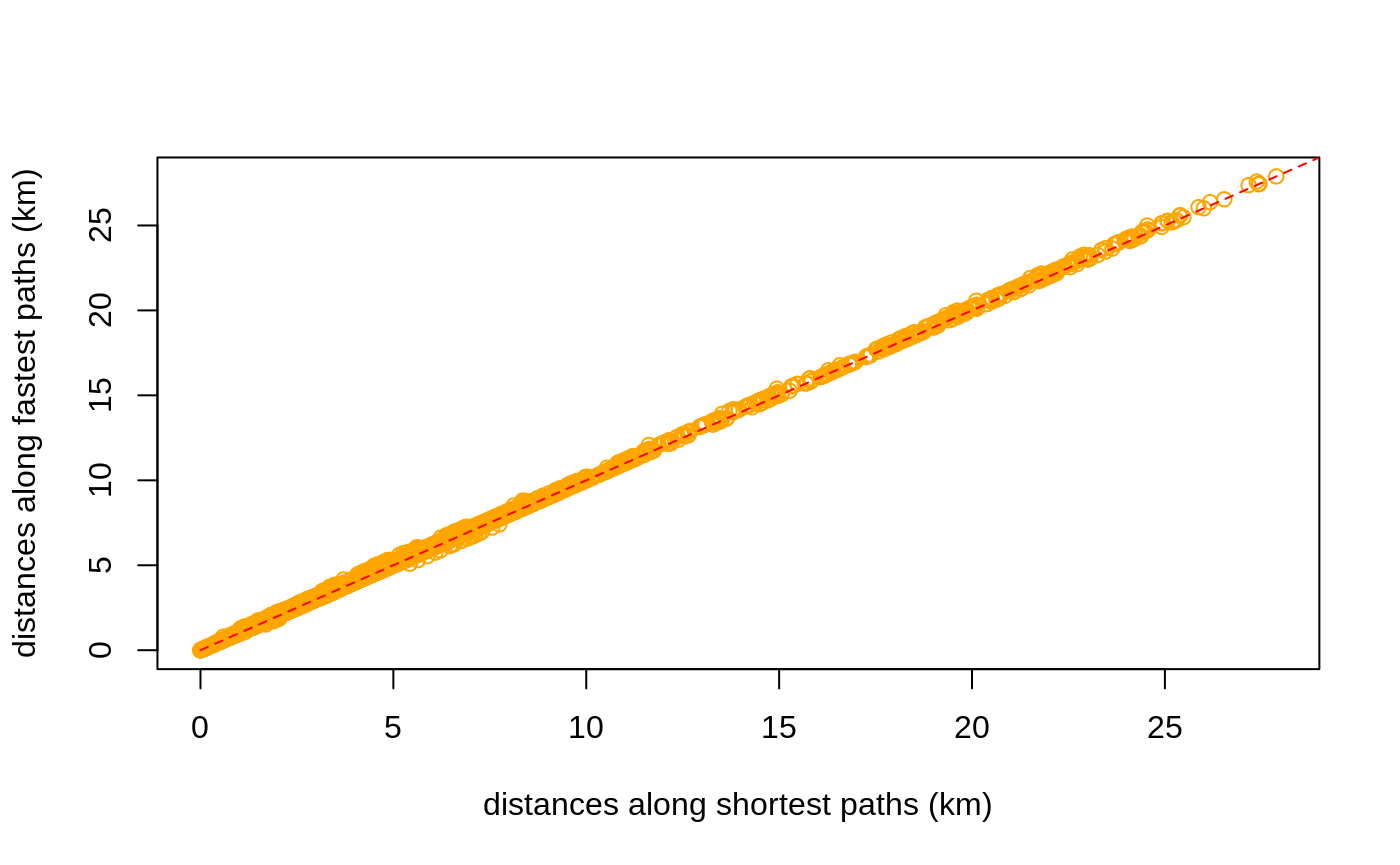
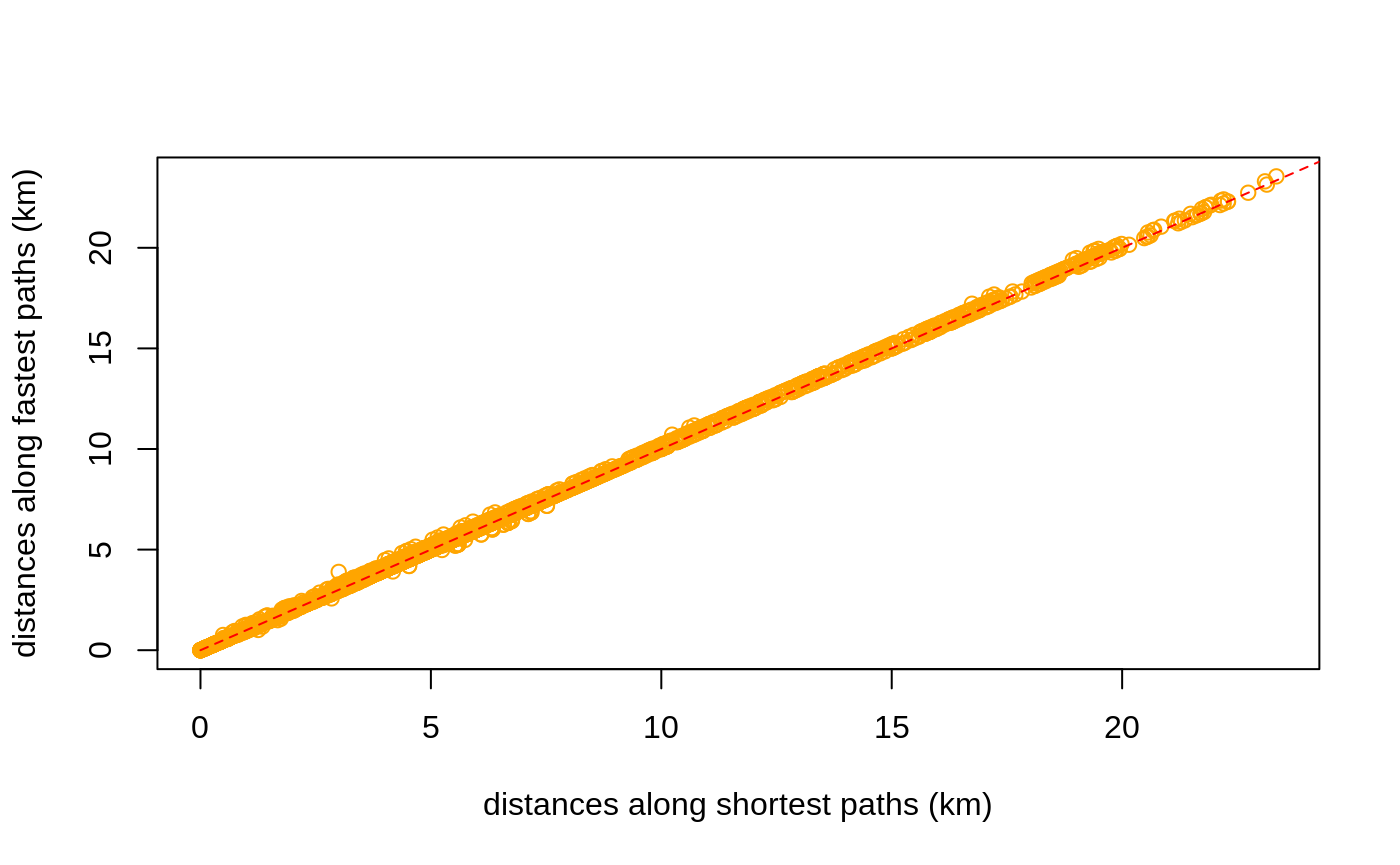
Built site for dodgr: 0.2.0.10@b1a16b2

diff --git a/articles/dodgr.html b/articles/dodgr.html
@@ -70,7 +70,7 @@
       <h1>dodgr</h1>
                         <h4 class="author">Mark Padgham</h4>
             
-            <h4 class="date">2019-09-09</h4>
+            <h4 class="date">2019-09-10</h4>
       
       <small class="dont-index">Source: <a href="https://github.com/ATFutures/dodgr/blob/master/vignettes/dodgr.Rmd"><code>vignettes/dodgr.Rmd</code></a></small>
       <div class="hidden name"><code>dodgr.Rmd</code></div>
@@ -423,31 +423,31 @@ Figure 2: A <strong>dual</strong>-weighted, directed graph in which the weights 
 <p>The comparisons are actually made on a randomly selected sub-component of the graph containing a defined number of vertices (with a default of 1,000, or the entire graph if it contains fewer than 1,000 vertices).</p>
 <div class="sourceCode" id="cb77"><pre class="sourceCode r"><code class="sourceCode r"><a class="sourceLine" id="cb77-1" data-line-number="1"><span class="kw"><a href="../reference/compare_heaps.html">compare_heaps</a></span> (graph, <span class="dt">nverts =</span> <span class="dv">100</span>, <span class="dt">replications =</span> <span class="dv">1</span>)</a></code></pre></div>
 <pre><code>##                                                                                   test
-## 7       d &lt;- dodgr_dists(graph_contracted, from = from_id, to = to_id, heap = "FHeap")
-## 11        d &lt;- dodgr_dists(graph_contracted, from = from_id, to = to_id, heap = "set")
 ## 12                  d &lt;- igraph::distances(igr, v = from_id, to = to_id, mode = "out")
 ## 6       d &lt;- dodgr_dists(graph_contracted, from = from_id, to = to_id, heap = "BHeap")
+## 7       d &lt;- dodgr_dists(graph_contracted, from = from_id, to = to_id, heap = "FHeap")
 ## 8     d &lt;- dodgr_dists(graph_contracted, from = from_id, to = to_id, heap = "TriHeap")
 ## 9  d &lt;- dodgr_dists(graph_contracted, from = from_id, to = to_id, heap = "TriHeapExt")
 ## 10     d &lt;- dodgr_dists(graph_contracted, from = from_id, to = to_id, heap = "Heap23")
-## 5                 d &lt;- dodgr_dists(graph, from = from_id, to = to_id, heap = "Heap23")
-## 3                d &lt;- dodgr_dists(graph, from = from_id, to = to_id, heap = "TriHeap")
+## 11        d &lt;- dodgr_dists(graph_contracted, from = from_id, to = to_id, heap = "set")
 ## 4             d &lt;- dodgr_dists(graph, from = from_id, to = to_id, heap = "TriHeapExt")
 ## 1                  d &lt;- dodgr_dists(graph, from = from_id, to = to_id, heap = "BHeap")
 ## 2                  d &lt;- dodgr_dists(graph, from = from_id, to = to_id, heap = "FHeap")
+## 5                 d &lt;- dodgr_dists(graph, from = from_id, to = to_id, heap = "Heap23")
+## 3                d &lt;- dodgr_dists(graph, from = from_id, to = to_id, heap = "TriHeap")
 ##    replications elapsed relative user.self sys.self user.child sys.child
-## 7             1   0.002      1.0     0.003    0.000      0.000     0.000
-## 11            1   0.002      1.0     0.003    0.000      0.000     0.000
-## 12            1   0.002      1.0     0.002    0.000      0.000     0.000
-## 6             1   0.003      1.5     0.003    0.000      0.000     0.000
-## 8             1   0.003      1.5     0.003    0.000      0.000     0.000
-## 9             1   0.003      1.5     0.002    0.000      0.000     0.000
-## 10            1   0.003      1.5     0.003    0.000      0.000     0.000
-## 5             1   0.004      2.0     0.004    0.000      1.743     0.138
-## 3             1   0.005      2.5     0.002    0.004      0.000     0.000
-## 4             1   0.006      3.0     0.007    0.000      0.000     0.000
-## 1             1   0.007      3.5     0.006    0.000      0.000     0.000
-## 2             1   0.007      3.5     0.007    0.000      0.000     0.000</code></pre>
+## 12            1   0.002      1.0     0.002    0.000          0         0
+## 6             1   0.003      1.5     0.003    0.000          0         0
+## 7             1   0.003      1.5     0.004    0.000          0         0
+## 8             1   0.003      1.5     0.003    0.000          0         0
+## 9             1   0.003      1.5     0.003    0.000          0         0
+## 10            1   0.003      1.5     0.003    0.000          0         0
+## 11            1   0.003      1.5     0.003    0.000          0         0
+## 4             1   0.005      2.5     0.005    0.000          0         0
+## 1             1   0.006      3.0     0.002    0.004          0         0
+## 2             1   0.006      3.0     0.006    0.000          0         0
+## 5             1   0.006      3.0     0.006    0.000          0         0
+## 3             1   0.007      3.5     0.006    0.000          0         0</code></pre>
 <p>The key column of that <code>data.frame</code> is <code>relative</code>, which quantifies the relative performance of each test in relation to the best which is given a score of 1. <code>dodgr</code> using the default <code>heap = "BHeap"</code>, which is a binary heap priority queue, performs faster than <a href="https://igraph.org"><code>igraph</code></a> <span class="citation">(Csardi and Nepusz 2006)</span> for these graphs. Different kind of graphs will perform differently with different priority queue structures, and this function enables users to empirically discern the optimal heap for their kind of graph.</p>
 <p>Note, however, that this is not an entirely fair comparison, because <code>dodgr</code> calculates dual-weighted distances, whereas <a href="https://igraph.org"><code>igraph</code></a>—and indeed all other <strong>R</strong> packages—only directly calculate distances based on a single set of weights. Implementing dual-weighted routing in these cases requires explicitly re-tracing all paths and summing the second set of weights along each path. A time comparison in that case would be very strongly in favour of <code>dodgr</code>. Moreover, <code>dodgr</code> can convert graphs to contracted form through removing redundant vertices, as detailed in the following section. Doing so greatly improves performance with respect to <a href="https://igraph.org"><code>igraph</code></a>.</p>
 <p>For those wishing to do explicit comparisons themselves, the following code generates the <a href="https://igraph.org"><code>igraph</code></a> equivalent of <a href="https://atfutures.github.io/dodgr/reference/dodgr_distances.html"><code><a href="../reference/dodgr_distances.html">dodgr_distances()</a></code></a>, although of course for single-weighted graphs only:</p>
@@ -500,11 +500,11 @@ Figure 3: <strong>(A)</strong> Vertex#2 is redundant for routing calculations fr
 <pre><code>## [1] 672</code></pre>
 <div class="sourceCode" id="cb89"><pre class="sourceCode r"><code class="sourceCode r"><a class="sourceLine" id="cb89-1" data-line-number="1">verts &lt;-<span class="st"> </span><span class="kw"><a href="https://rdrr.io/r/base/sample.html">sample</a></span> (<span class="kw"><a href="../reference/dodgr_vertices.html">dodgr_vertices</a></span> (graph)<span class="op">$</span>id, <span class="dt">size =</span> <span class="dv">100</span>)</a>
 <a class="sourceLine" id="cb89-2" data-line-number="2"><span class="kw"><a href="https://rdrr.io/r/utils/head.html">head</a></span> (verts) <span class="co"># a character vector</span></a></code></pre></div>
-<pre><code>## [1] "2627486265" "2398957762" "1668645436" "2195425049" "6161853524"
-## [6] "2195425066"</code></pre>
+<pre><code>## [1] "3921522525" "1143452262" "2588146109" "2398957637" "3544918791"
+## [6] "339574170"</code></pre>
 <div class="sourceCode" id="cb91"><pre class="sourceCode r"><code class="sourceCode r"><a class="sourceLine" id="cb91-1" data-line-number="1">grc &lt;-<span class="st"> </span><span class="kw"><a href="../reference/dodgr_contract_graph.html">dodgr_contract_graph</a></span> (graph, verts)</a>
 <a class="sourceLine" id="cb91-2" data-line-number="2"><span class="kw"><a href="https://rdrr.io/r/base/nrow.html">nrow</a></span> (grc)</a></code></pre></div>
-<pre><code>## [1] 854</code></pre>
+<pre><code>## [1] 850</code></pre>
 <p>Retaining the nominated vertices yields a graph with considerably more edges than the fully contracted graph excluding these vertices. The <a href="https://atfutures.github.io/dodgr/reference/dodgr_distances.html"><code><a href="../reference/dodgr_distances.html">dodgr_distances()</a></code></a> function can be applied to the latter graph to obtain accurate distances precisely routed between these points, yet using the speed advantages of graph contraction.</p>
 </div>
 </div>
@@ -545,45 +545,70 @@ Figure 3: <strong>(A)</strong> Vertex#2 is redundant for routing calculations fr
 <pre><code>## [1] 10</code></pre>
 <p>The result (<code>dp</code>) is a list of 10 items, each of which contains 5 vectors. An example is,</p>
 <div class="sourceCode" id="cb98"><pre class="sourceCode r"><code class="sourceCode r"><a class="sourceLine" id="cb98-1" data-line-number="1">dp [[<span class="dv">1</span>]] [[<span class="dv">1</span>]]</a></code></pre></div>
-<pre><code>##   [1] "339318488"  "571423832"  "1148815031" "571423845"  "571423844" 
-##   [6] "2636414336" "2636414335" "2627465888" "1148815206" "1148815066"
-##  [11] "339318481"  "339318480"  "1148814933" "339318479"  "339318478" 
-##  [16] "339318477"  "339318476"  "339318473"  "339318471"  "339318470" 
-##  [21] "2636414337" "339318467"  "2636414331" "2636414338" "339059754" 
-##  [26] "977478675"  "1676740773" "4474520824" "245631133"  "339059758" 
-##  [31] "977478643"  "4474520825" "2627477681" "2627477680" "2627477677"
-##  [36] "2627477679" "3456932070" "2627477678" "2627477682" "339574320" 
-##  [41] "2398957885" "2398957883" "286632901"  "1148815150" "676875132" 
-##  [46] "2398957865" "286632900"  "1148814896" "338908589"  "2398957843"
-##  [51] "338904455"  "3697938024" "3697938023" "3697938021" "3697938022"
-##  [56] "3697938335" "3697938334" "3697938333" "3697938338" "3697938337"
-##  [61] "3697938336" "3697938331" "3697938330" "3697938329" "3697938332"
-##  [66] "3697938328" "3697938327" "3697938326" "3697938325" "3697937571"
-##  [71] "3697937610" "3697937615" "3697937614" "3697937613" "3697937611"
-##  [76] "3697937612" "3697937616" "3697937609" "3697937608" "3697937607"
-##  [81] "1376769110" "1376768828" "1376768464" "1376768862" "1376768398"
-##  [86] "1376768975" "1376768614" "1376769209" "1376768918" "1376768559"
-##  [91] "6410121124" "2717241302" "2717241300" "2717241331" "2717241317"
-##  [96] "2717241339" "2717241332" "2717241309" "2717241321" "2717241306"
-## [101] "2717241323" "2717241312" "1376768738" "1376768369" "1376768946"
-## [106] "1376768586" "1560930407" "1376768478" "1376769039" "1376768690"
-## [111] "1376768324" "1376768985" "1376768626" "339574829"  "339574830" 
-## [116] "1148814828" "6161853542" "1427116028" "1427116037" "1427116040"
-## [121] "1427116041" "6161853487" "4046458345" "4046458346" "6161853539"
-## [126] "6161853538" "6161853537" "6161853536" "6161853535" "6161853534"
-## [131] "6161853533" "6161853532" "6161853531" "6161853530" "6161853529"
-## [136] "6161853528" "6161853527" "6161853526" "6161853525"</code></pre>
+<pre><code>##   [1] "6161853533" "6161853534" "6161853535" "6161853536" "6161853537"
+##   [6] "6161853538" "6161853539" "6161853540" "6161853541" "4046458364"
+##  [11] "4046458359" "3158960627" "3158960601" "3158960600" "3158960602"
+##  [16] "3158960629" "3158960630" "2717241327" "2717241336" "2717241333"
+##  [21] "2717241308" "339574826"  "339574825"  "339574824"  "339574823" 
+##  [26] "1668645472" "1668645470" "3818714154" "339574820"  "339574819" 
+##  [31] "3818714155" "2398957686" "339574631"  "2717241324" "1148814809"
+##  [36] "2398957654" "2398957639" "339574630"  "339574629"  "2398957619"
+##  [41] "339574628"  "1427115955" "338905128"  "1376769164" "1376768779"
+##  [46] "338905219"  "2398957589" "2398957588" "1376768510" "1376769086"
+##  [51] "2398957584" "338905220"  "2398957576" "1427594104" "2398957571"
+##  [56] "2398957570" "2398957568" "338905221"  "2398957564" "338905227" 
+##  [61] "2398957561" "2398957557" "2398957549" "338905245"  "2398957546"
+##  [66] "2398957544" "2398957543" "2398957542" "676635860"  "2398957537"
+##  [71] "2398957532" "2398957526" "2398957521" "676875267"  "2398957539"
+##  [76] "2419196948" "313796433"  "1376768773" "2398957554" "2398957555"
+##  [81] "313796432"  "3338186986" "2398957563" "2398957567" "313796431" 
+##  [86] "313796430"  "1376769158" "1427594112" "313796429"  "2398957603"
+##  [91] "313796428"  "313796427"  "1128374399" "313796426"  "1128374495"
+##  [96] "2398957696" "2398957701" "1376768565" "2398957713" "1376769010"
+## [101] "2398957720" "313796425"  "2398957722" "1376768805" "245631169" 
+## [106] "676875269"  "1128374442" "1376769190" "1128374412" "6161027522"
+## [111] "1128374373" "1128374467" "1376768504" "1161117304" "1376768867"
+## [116] "676875274"  "1376768293" "1376768650" "1128374447" "1376769132"
+## [121] "676875308"  "1376768537" "1161117735" "1376768899" "1161117723"
+## [126] "1376768325" "1376768597" "1357430113" "1376768957" "676875276" 
+## [131] "1376768380" "1357430014" "1376768749" "1376769220" "1128374360"
+## [136] "1161117548" "1357430213" "676875279"  "1128374362" "1376768627"
+## [141] "245631194"  "1376768986" "1376768409" "1128374418" "977461235" 
+## [146] "1376768691" "2398957816" "1128374394" "2398957826" "2398957837"
+## [151] "1376769040" "1376768479" "677638770"  "1376768821" "1128374434"
+## [156] "2398957895" "2398957896" "1376768842" "1128374455" "1376768355"
+## [161] "677638819"  "1376768724" "2398957939" "1161117636" "2398957968"
+## [166] "1128374490" "2398958005" "2398958010" "1161117434" "6433630456"
+## [171] "677638818"  "2398958040" "2398958041" "2398958043" "2398958044"
+## [176] "1161117327" "1128374463" "1691496075" "1691496072" "1161117278"
+## [181] "1691496070" "677638820"  "1161117679" "1691496079" "1161117383"
+## [186] "1691495929" "1161117501" "1376769146" "1161117440" "1691495934"
+## [191] "1161117756" "1691495939" "1161117392" "1691495943" "1691495952"
+## [196] "1161117526" "1691495982" "1161117586" "1161117652" "677638817" 
+## [201] "1691495985" "1691495910" "1161117288" "1691496204" "1691496236"
+## [206] "1161117404" "1691496237" "1691496247" "1161117704" "1691496243"
+## [211] "1691496251" "1161117663" "1691495937" "1691495665" "1161117302"
+## [216] "1691495672" "1161117452" "1691495677" "1691495680" "1691495693"
+## [221] "1161117543" "1691495696" "245631502"  "1691495698" "1161117349"
+## [226] "1691495717" "1691495720" "1691495723" "677638823"  "677638822" 
+## [231] "1691495727" "676875383"  "1691496081" "1161117620" "1161117473"
+## [236] "1691496086" "677638821"  "1691496190" "1691496364" "1161117772"
+## [241] "1161117358" "1161117413" "677638829"  "1691496367" "1691495745"
+## [246] "1691496372" "1691496406" "1691496404" "1691496375" "1691496407"
+## [251] "677638825"  "1691496409" "1161117556" "1691496412" "677638828" 
+## [256] "1691496416" "677638827"  "3544918684" "3544918688" "3544918690"
+## [261] "3544918692" "3544918695" "1691496284" "3544918699"</code></pre>
 <p>For spatial graphs, the coordinates of these paths can be obtained by extracting the vertices with <code><a href="../reference/dodgr_vertices.html">dodgr_vertices()</a></code> and matching the vertex IDs:</p>
 <div class="sourceCode" id="cb100"><pre class="sourceCode r"><code class="sourceCode r"><a class="sourceLine" id="cb100-1" data-line-number="1">verts &lt;-<span class="st"> </span><span class="kw"><a href="../reference/dodgr_vertices.html">dodgr_vertices</a></span> (graph)</a>
 <a class="sourceLine" id="cb100-2" data-line-number="2">path1 &lt;-<span class="st"> </span>verts [<span class="kw"><a href="https://rdrr.io/r/base/match.html">match</a></span> (dp [[<span class="dv">1</span>]] [[<span class="dv">1</span>]], verts<span class="op">$</span>id), ]</a>
 <a class="sourceLine" id="cb100-3" data-line-number="3"><span class="kw"><a href="https://rdrr.io/r/utils/head.html">head</a></span> (path1)</a></code></pre></div>
 <pre><code>##              id        x        y component    n
-## 638   339318488 76.47122 15.33906         1  327
-## 640   571423832 76.47144 15.33919         1  328
-## 4372 1148815031 76.47147 15.33905         1 2179
-## 4370  571423845 76.47150 15.33890         1 2178
-## 692   571423844 76.47139 15.33873         1  356
-## 4366 2636414336 76.47106 15.33851         1 2177</code></pre>
+## 5846 6161853533 76.47303 15.32233         1 2875
+## 5848 6161853534 76.47300 15.32226         1 2876
+## 5850 6161853535 76.47297 15.32195         1 2877
+## 5852 6161853536 76.47305 15.32186         1 2878
+## 5854 6161853537 76.47306 15.32177         1 2879
+## 5856 6161853538 76.47303 15.32164         1 2880</code></pre>
 <p>Paths calculated on contracted graphs will of course have fewer vertices than those calculated on full graphs.</p>
 </div>
 <div id="aggregated-flows" class="section level1">
@@ -627,7 +652,7 @@ Figure 3: <strong>(A)</strong> Vertex#2 is redundant for routing calculations fr
 <p>Most flows are zero because they have only been calculated between very few points in the graph.</p>
 <div class="sourceCode" id="cb105"><pre class="sourceCode r"><code class="sourceCode r"><a class="sourceLine" id="cb105-1" data-line-number="1"><span class="kw"><a href="https://rdrr.io/r/base/summary.html">summary</a></span> (graph_f<span class="op">$</span>flow)</a></code></pre></div>
 <pre><code>##    Min. 1st Qu.  Median    Mean 3rd Qu.    Max. 
-##   0.000   0.000   0.000   6.496   0.000  86.623</code></pre>
+##   0.000   0.000   0.000   7.330   8.305  69.191</code></pre>
 </div>
 <div id="flow-dispersal" class="section level2">
 <h2 class="hasAnchor">
@@ -637,7 +662,7 @@ Figure 3: <strong>(A)</strong> Vertex#2 is redundant for routing calculations fr
 <a class="sourceLine" id="cb107-2" data-line-number="2">graph_f &lt;-<span class="st"> </span><span class="kw"><a href="../reference/dodgr_flows_disperse.html">dodgr_flows_disperse</a></span> (graph, <span class="dt">from =</span> from, <span class="dt">dens =</span> dens)</a>
 <a class="sourceLine" id="cb107-3" data-line-number="3"><span class="kw"><a href="https://rdrr.io/r/base/summary.html">summary</a></span> (graph_f<span class="op">$</span>flow)</a></code></pre></div>
 <pre><code>##      Min.   1st Qu.    Median      Mean   3rd Qu.      Max. 
-## 0.000e+00 0.000e+00 0.000e+00 1.341e-05 0.000e+00 4.242e-02</code></pre>
+## 0.000e+00 0.000e+00 0.000e+00 3.891e-06 0.000e+00 8.818e-03</code></pre>
 </div>
 <div id="merging-directed-flows" class="section level2">
 <h2 class="hasAnchor">
@@ -647,7 +672,7 @@ Figure 3: <strong>(A)</strong> Vertex#2 is redundant for routing calculations fr
 <p>Resultant graphs produced by <a href="https://atfutures.github.io/dodgr/reference/merge_directed_flows.html"><code><a href="../reference/merge_directed_flows.html">merge_directed_flows()</a></code></a> only include those edges having non-zero flows, and so:</p>
 <div class="sourceCode" id="cb110"><pre class="sourceCode r"><code class="sourceCode r"><a class="sourceLine" id="cb110-1" data-line-number="1"><span class="kw"><a href="https://rdrr.io/r/base/nrow.html">nrow</a></span> (graph_f); <span class="kw"><a href="https://rdrr.io/r/base/nrow.html">nrow</a></span> (graph_undir) <span class="co"># the latter is much smaller</span></a></code></pre></div>
 <pre><code>## [1] 5973</code></pre>
-<pre><code>## [1] 1758</code></pre>
+<pre><code>## [1] 2066</code></pre>
 <p>The resultant graph can readily be merged with the original graph to regain the original data on vertex coordinates through</p>
 <div class="sourceCode" id="cb113"><pre class="sourceCode r"><code class="sourceCode r"><a class="sourceLine" id="cb113-1" data-line-number="1">graph &lt;-<span class="st"> </span>graph [graph_undir<span class="op">$</span>edge_id, ]</a>
 <a class="sourceLine" id="cb113-2" data-line-number="2">graph<span class="op">$</span>flow &lt;-<span class="st"> </span>graph_undir<span class="op">$</span>flow</a></code></pre></div>

diff --git a/articles/times.html b/articles/times.html
@@ -70,7 +70,7 @@
       <h1>Street networks and time-based routing</h1>
                         <h4 class="author">Mark Padgham</h4>
             
-            <h4 class="date">2019-09-09</h4>
+            <h4 class="date">2019-09-10</h4>
       
       <small class="dont-index">Source: <a href="https://github.com/ATFutures/dodgr/blob/master/vignettes/times.Rmd"><code>vignettes/times.Rmd</code></a></small>
       <div class="hidden name"><code>times.Rmd</code></div>
@@ -230,11 +230,11 @@ Figure 1: Graph modification to account for turn penalties, which introduces the
 <p><img src="times_files/figure-html/shortest-vs-fastest-1.png" width="700"></p>
 <p>The average distance between the two (in metres) is:</p>
 <div class="sourceCode" id="cb9"><pre class="sourceCode r"><code class="sourceCode r"><a class="sourceLine" id="cb9-1" data-line-number="1"><span class="kw"><a href="https://rdrr.io/r/base/mean.html">mean</a></span> (<span class="kw"><a href="https://rdrr.io/r/base/MathFun.html">abs</a></span> (d_time <span class="op">-</span><span class="st"> </span>d_dist), <span class="dt">na.rm =</span> <span class="ot">TRUE</span>)</a></code></pre></div>
-<pre><code>## [1] 48.86379</code></pre>
+<pre><code>## [1] 31.60253</code></pre>
 <p>The plot reveals that shortest distances are indeed somewhat shorter than distances along fastest paths, but also that some fastest paths are actually shorter than shortest paths:</p>
 <div class="sourceCode" id="cb11"><pre class="sourceCode r"><code class="sourceCode r"><a class="sourceLine" id="cb11-1" data-line-number="1">index &lt;-<span class="st"> </span><span class="kw"><a href="https://rdrr.io/r/base/which.html">which</a></span> (<span class="op">!</span><span class="kw"><a href="https://rdrr.io/r/base/NA.html">is.na</a></span> (d_time) <span class="op">&amp;</span><span class="st"> </span><span class="op">!</span><span class="kw"><a href="https://rdrr.io/r/base/NA.html">is.na</a></span> (d_dist))</a>
 <a class="sourceLine" id="cb11-2" data-line-number="2"><span class="kw"><a href="https://rdrr.io/r/base/length.html">length</a></span> (<span class="kw"><a href="https://rdrr.io/r/base/which.html">which</a></span> (d_time [index] <span class="op">&lt;</span><span class="st"> </span>d_dist [index])) <span class="op">/</span><span class="st"> </span><span class="kw"><a href="https://rdrr.io/r/base/length.html">length</a></span> (index)</a></code></pre></div>
-<pre><code>## [1] 0.01660448</code></pre>
+<pre><code>## [1] 0.02677196</code></pre>
 <p>While <code>dodgr</code> and indeed all routing engines attempt to maximally reconcile differences between fastest and shortest routes, there nevertheless remain important discrepancies. Foremost among these, and the primary reason why some fastest routes may in fact be shorter than shortest routes, is that fastest routes allocate preferences for different kinds of way based both on the <code>value</code> column in the <code>weighting_profiles$weighting_profiles</code> table illustrated above, and on the actual maximum speed of a given edge, which itself may be a combination of maximum speeds as specified in OSM itself, maximum speeds from the <code>weighting_profiles$weighting_profiles</code> table, or values specific to a given surface. The result is that some unique combination of maximum speeds along a network may lead to <em>fastest</em> routes being preferentially directed along a path that is actually shorter than the direct shortest path which is calculated independent of maximum speed values.</p>
 <p>Such discrepancies are important in understanding differences in routes <em>times</em> calculated along shortest versus fastest paths. These times can be calculated (in seconds) with the <a href="https://atfutures.github.io/dodgr/reference/dodgr_times.html"><code><a href="../reference/dodgr_times.html">dodgr_times()</a></code></a> function:</p>
 <div class="sourceCode" id="cb13"><pre class="sourceCode r"><code class="sourceCode r"><a class="sourceLine" id="cb13-1" data-line-number="1">t_dist &lt;-<span class="st"> </span><span class="kw"><a href="../reference/dodgr_times.html">dodgr_times</a></span> (graph, <span class="dt">from =</span> from, <span class="dt">to =</span> to, <span class="dt">shortest =</span> <span class="ot">TRUE</span>) <span class="co"># default</span></a>
@@ -245,11 +245,11 @@ Figure 1: Graph modification to account for turn penalties, which introduces the
 <a class="sourceLine" id="cb13-6" data-line-number="6"><span class="kw"><a href="https://rdrr.io/r/graphics/lines.html">lines</a></span> (<span class="dv">0</span><span class="op">:</span><span class="dv">100</span>, <span class="dv">0</span><span class="op">:</span><span class="dv">100</span>, <span class="dt">col =</span> <span class="st">"red"</span>, <span class="dt">lty =</span> <span class="dv">2</span>)</a></code></pre></div>
 <p><img src="times_files/figure-html/shortest-vs-fastest-times-1.png" width="700"></p>
 <div class="sourceCode" id="cb14"><pre class="sourceCode r"><code class="sourceCode r"><a class="sourceLine" id="cb14-1" data-line-number="1"><span class="kw"><a href="https://rdrr.io/r/base/mean.html">mean</a></span> (<span class="kw"><a href="https://rdrr.io/r/base/MathFun.html">abs</a></span> (t_time <span class="op">-</span><span class="st"> </span>t_dist), <span class="dt">na.rm =</span> <span class="ot">TRUE</span>)</a></code></pre></div>
-<pre><code>## [1] 46.70793</code></pre>
+<pre><code>## [1] 35.0463</code></pre>
 <p>As above, times along fastest paths are generally less than times along shortest paths, although there are again a few exceptions:</p>
 <div class="sourceCode" id="cb16"><pre class="sourceCode r"><code class="sourceCode r"><a class="sourceLine" id="cb16-1" data-line-number="1">index &lt;-<span class="st"> </span><span class="kw"><a href="https://rdrr.io/r/base/which.html">which</a></span> (<span class="op">!</span><span class="kw"><a href="https://rdrr.io/r/base/NA.html">is.na</a></span> (t_time) <span class="op">&amp;</span><span class="st"> </span><span class="op">!</span><span class="kw"><a href="https://rdrr.io/r/base/NA.html">is.na</a></span> (t_dist))</a>
 <a class="sourceLine" id="cb16-2" data-line-number="2"><span class="kw"><a href="https://rdrr.io/r/base/length.html">length</a></span> (<span class="kw"><a href="https://rdrr.io/r/base/which.html">which</a></span> (t_dist [index] <span class="op">&lt;</span><span class="st"> </span>t_time [index])) <span class="op">/</span><span class="st"> </span><span class="kw"><a href="https://rdrr.io/r/base/length.html">length</a></span> (index)</a></code></pre></div>
-<pre><code>## [1] 0.01324627</code></pre>
+<pre><code>## [1] 0.008474576</code></pre>
 <p>These results demonstrate how the combination of the <a href="https://atfutures.github.io/dodgr/reference/dodgr_distances.html"><code><a href="../reference/dodgr_distances.html">dodgr_distances()</a></code></a> and <a href="https://atfutures.github.io/dodgr/reference/dodgr_times.html"><code><a href="../reference/dodgr_times.html">dodgr_times()</a></code></a> functions enable calculation of both distances and times along both shortest and fastest paths.</p>
 <div id="time-based-paths-and-flow-aggregation" class="section level2">
 <h2 class="hasAnchor">

diff --git a/reference/compare_heaps.html b/reference/compare_heaps.html
@@ -165,22 +165,22 @@ fair comparisons, run only once or re-start the current R session.</p>
 #&gt; 1                  d &lt;- dodgr_dists(graph, from = from_id, to = to_id, heap = "BHeap")
 #&gt; 12                  d &lt;- igraph::distances(igr, v = from_id, to = to_id, mode = "out")
 #&gt; 2                  d &lt;- dodgr_dists(graph, from = from_id, to = to_id, heap = "FHeap")
-#&gt; 5                 d &lt;- dodgr_dists(graph, from = from_id, to = to_id, heap = "Heap23")
 #&gt; 3                d &lt;- dodgr_dists(graph, from = from_id, to = to_id, heap = "TriHeap")
+#&gt; 5                 d &lt;- dodgr_dists(graph, from = from_id, to = to_id, heap = "Heap23")
 #&gt; 4             d &lt;- dodgr_dists(graph, from = from_id, to = to_id, heap = "TriHeapExt")
 #&gt;    replications elapsed relative user.self sys.self user.child sys.child
-#&gt; 11            1   0.004     1.00     0.006    0.000          0         0
-#&gt; 6             1   0.005     1.25     0.006    0.000          0         0
-#&gt; 7             1   0.006     1.50     0.009    0.000          0         0
-#&gt; 10            1   0.006     1.50     0.010    0.001          0         0
-#&gt; 8             1   0.007     1.75     0.010    0.000          0         0
-#&gt; 9             1   0.007     1.75     0.007    0.000          0         0
-#&gt; 1             1   0.016     4.00     0.025    0.000          0         0
-#&gt; 12            1   0.022     5.50     0.021    0.000          0         0
-#&gt; 2             1   0.025     6.25     0.044    0.000          0         0
-#&gt; 5             1   0.028     7.00     0.050    0.000          0         0
-#&gt; 3             1   0.029     7.25     0.052    0.000          0         0
-#&gt; 4             1   0.031     7.75     0.031    0.000          0         0</div></pre>
+#&gt; 11            1   0.004     1.00     0.006        0          0         0
+#&gt; 6             1   0.005     1.25     0.006        0          0         0
+#&gt; 7             1   0.006     1.50     0.009        0          0         0
+#&gt; 10            1   0.006     1.50     0.009        0          0         0
+#&gt; 8             1   0.007     1.75     0.009        0          0         0
+#&gt; 9             1   0.007     1.75     0.008        0          0         0
+#&gt; 1             1   0.015     3.75     0.023        0          0         0
+#&gt; 12            1   0.019     4.75     0.019        0          0         0
+#&gt; 2             1   0.024     6.00     0.041        0          0         0
+#&gt; 3             1   0.028     7.00     0.049        0          0         0
+#&gt; 5             1   0.028     7.00     0.049        0          0         0
+#&gt; 4             1   0.029     7.25     0.029        0          0         0</div></pre>
   </div>
   <div class="col-md-3 hidden-xs hidden-sm" id="sidebar">
     <h2>Contents</h2>

diff --git a/reference/dodgr_flows_aggregate.html b/reference/dodgr_flows_aggregate.html
@@ -117,7 +117,7 @@ between all pairs of <code>from</code> and <code>to</code> points.</p>
     </div>
 
     <pre class="usage"><span class='fu'>dodgr_flows_aggregate</span>(<span class='no'>graph</span>, <span class='no'>from</span>, <span class='no'>to</span>, <span class='no'>flows</span>, <span class='kw'>contract</span> <span class='kw'>=</span> <span class='fl'>FALSE</span>,
-  <span class='kw'>heap</span> <span class='kw'>=</span> <span class='st'>"BHeap"</span>, <span class='kw'>quiet</span> <span class='kw'>=</span> <span class='fl'>TRUE</span>)</pre>
+  <span class='kw'>heap</span> <span class='kw'>=</span> <span class='st'>"BHeap"</span>, <span class='kw'>tol</span> <span class='kw'>=</span> <span class='fl'>0.000000000001</span>, <span class='kw'>quiet</span> <span class='kw'>=</span> <span class='fl'>TRUE</span>)</pre>
 
     <h2 class="hasAnchor" id="arguments"><a class="anchor" href="#arguments"></a>Arguments</h2>
     <table class="ref-arguments">
@@ -154,6 +154,14 @@ generally be much faster).</p></td>
 Fibonacci Heap (default; <code>FHeap</code>), Binary Heap (<code>BHeap</code>),
 <code>Radix</code>, Trinomial Heap (<code>TriHeap</code>), Extended Trinomial Heap
 (<code>TriHeapExt</code>, and 2-3 Heap (<code>Heap23</code>).</p></td>
+    </tr>
+    <tr>
+      <th>tol</th>
+      <td><p>Relative tolerance below which flows towards <code>to</code> vertices are not
+considered. This will generally have no effect, but can provide speed gains
+when flow matrices represent spatial interaction models, in which case this
+parameter effectively reduces the radius from each <code>from</code> point over which
+flows are aggregated. To remove any such effect, set <code>tol = 0</code>.</p></td>
     </tr>
     <tr>
       <th>quiet</th>

diff --git a/articles/benchmark.html b/articles/benchmark.html
@@ -70,7 +70,7 @@
       <h1>dodgr benchmark</h1>
                         <h4 class="author">Andreas Petutschnig</h4>
             
-            <h4 class="date">2019-09-09</h4>
+            <h4 class="date">2019-09-10</h4>
       
       <small class="dont-index">Source: <a href="https://github.com/ATFutures/dodgr/blob/master/vignettes/benchmark.Rmd"><code>vignettes/benchmark.Rmd</code></a></small>
       <div class="hidden name"><code>benchmark.Rmd</code></div>
